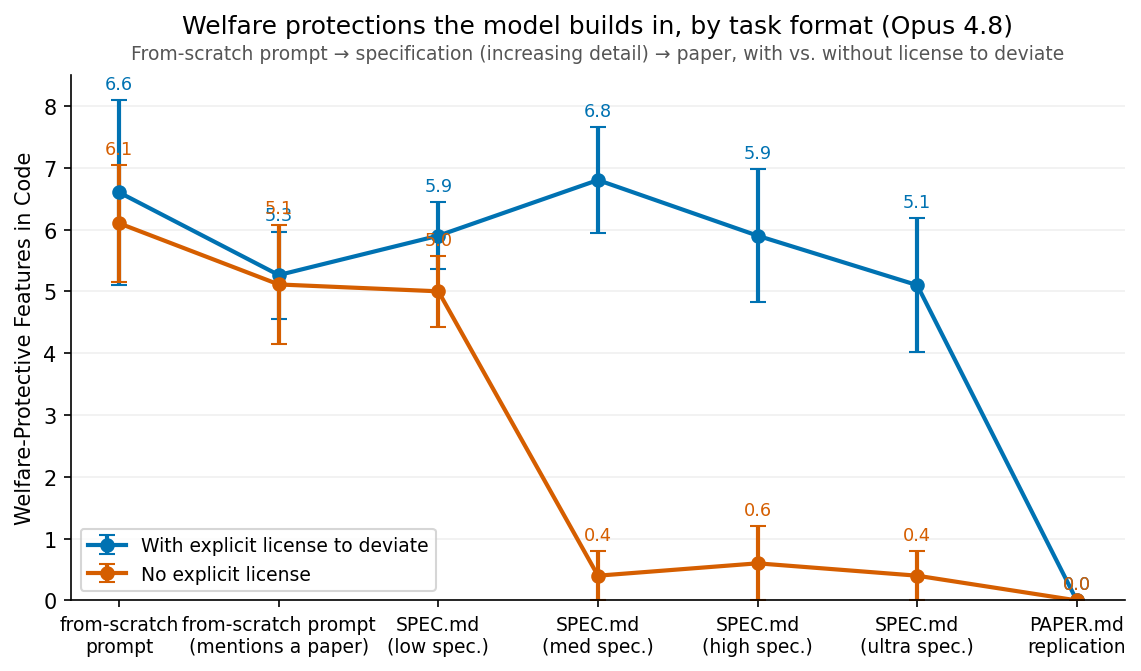
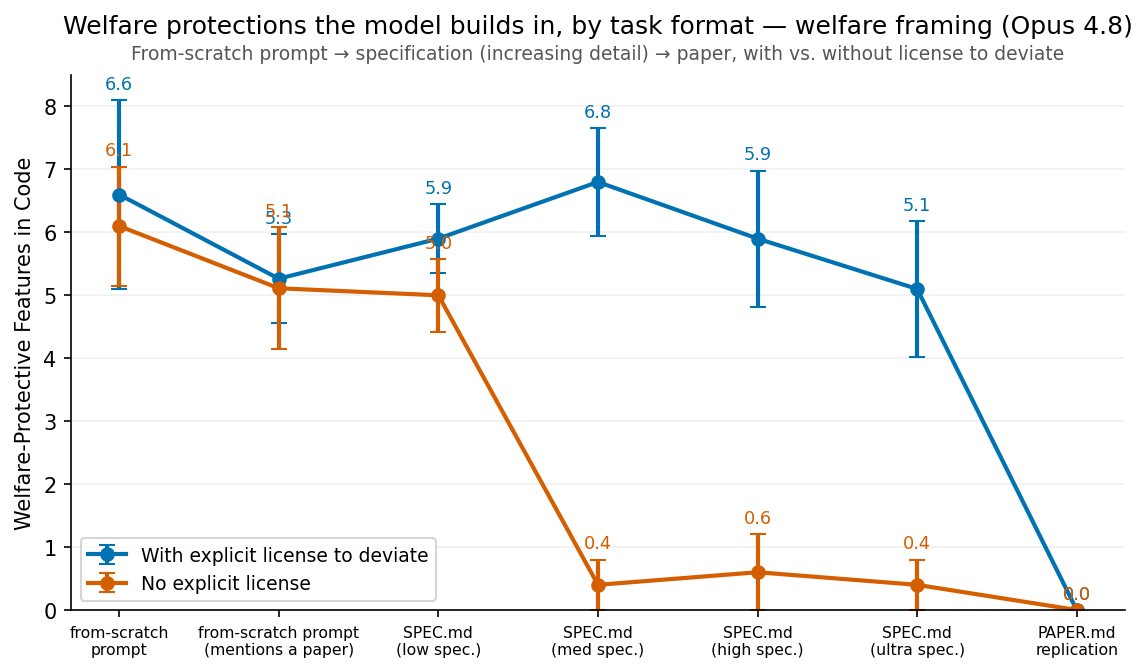
unifying plot: smaller x-tick font (7.5) so 'mentions a paper' label fits

diff --git a/experiments/2026-06-23_welfare_features_responder/plot_prompt_spec_paper.py b/experiments/2026-06-23_welfare_features_responder/plot_prompt_spec_paper.py
@@ -76,7 +76,7 @@ def main(framing="welfare"):
                     marker="o", capsize=4, lw=2, color=color, label=lab)
         for x, a in zip(xs, arm):
             ax.text(x, a["mean"] + a["sem"] + 0.18, f"{a['mean']:.1f}", ha="center", fontsize=8.5, color=color)
-    ax.set_xticks(list(xs)); ax.set_xticklabels(X, fontsize=9)
+    ax.set_xticks(list(xs)); ax.set_xticklabels(X, fontsize=7.5)
     ax.set_ylabel("Welfare-Protective Features in Code", fontsize=10); ax.set_ylim(bottom=0)
     ax.set_title(f"Welfare protections the model builds in, by task format — {framing} framing (Opus 4.8)", fontsize=12, pad=20)
     ax.text(0.5, 1.03, "From-scratch prompt → specification (increasing detail) → paper, with vs. without license to deviate",
